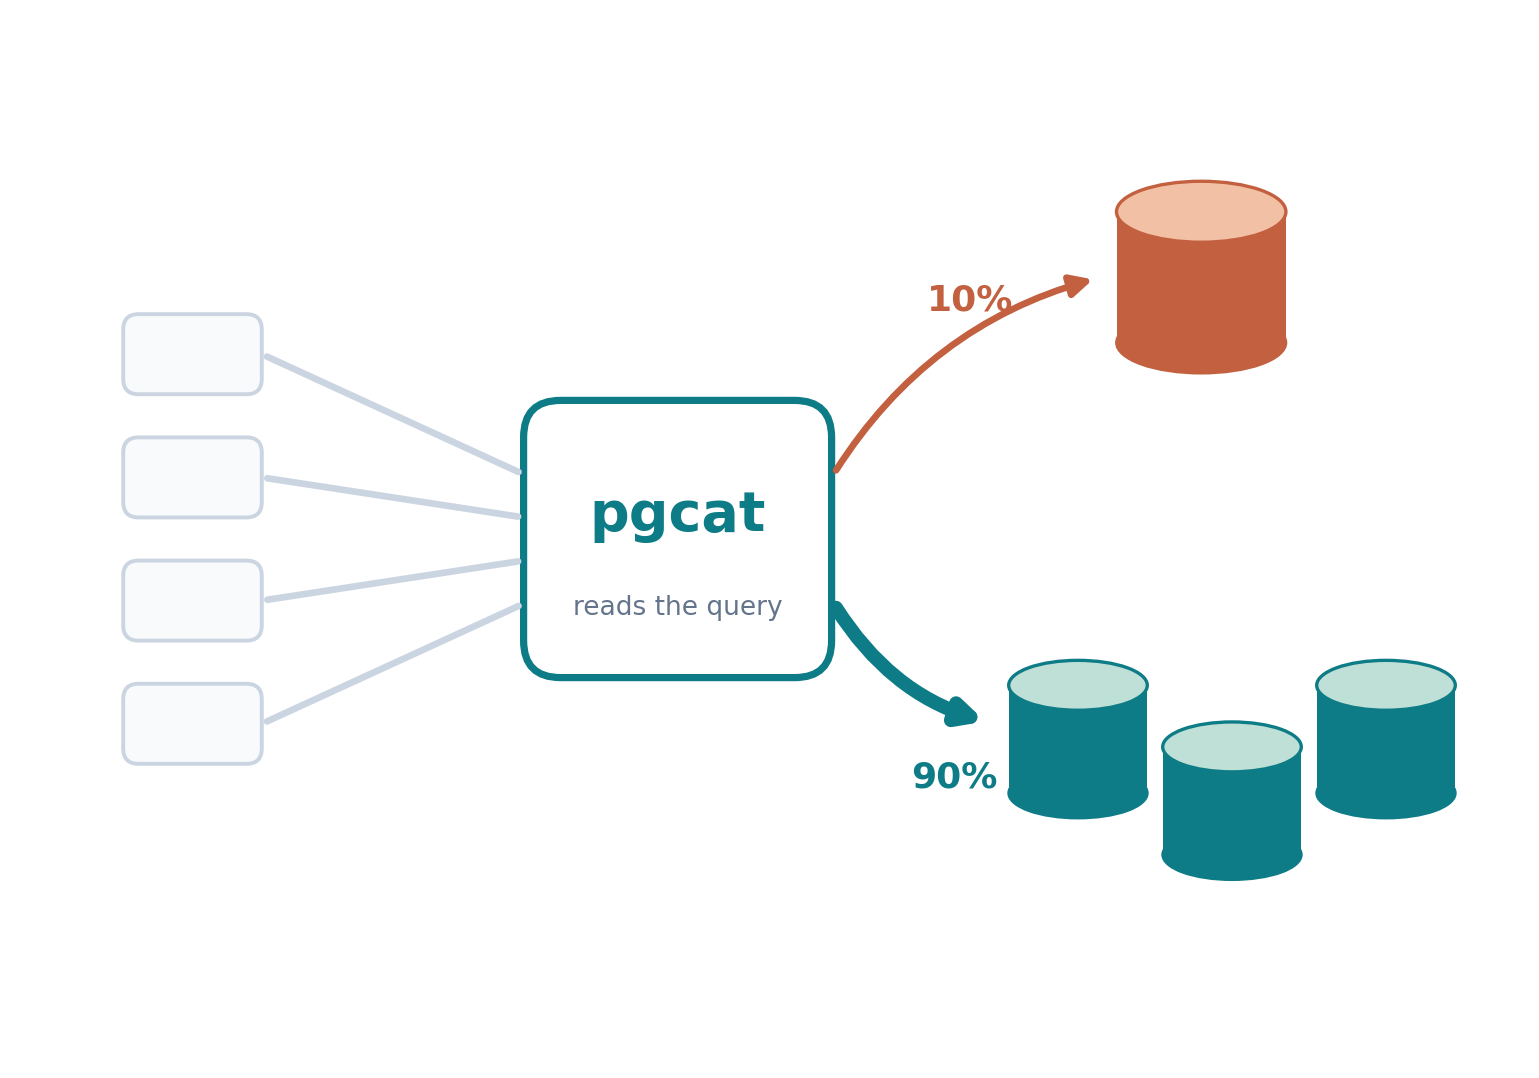
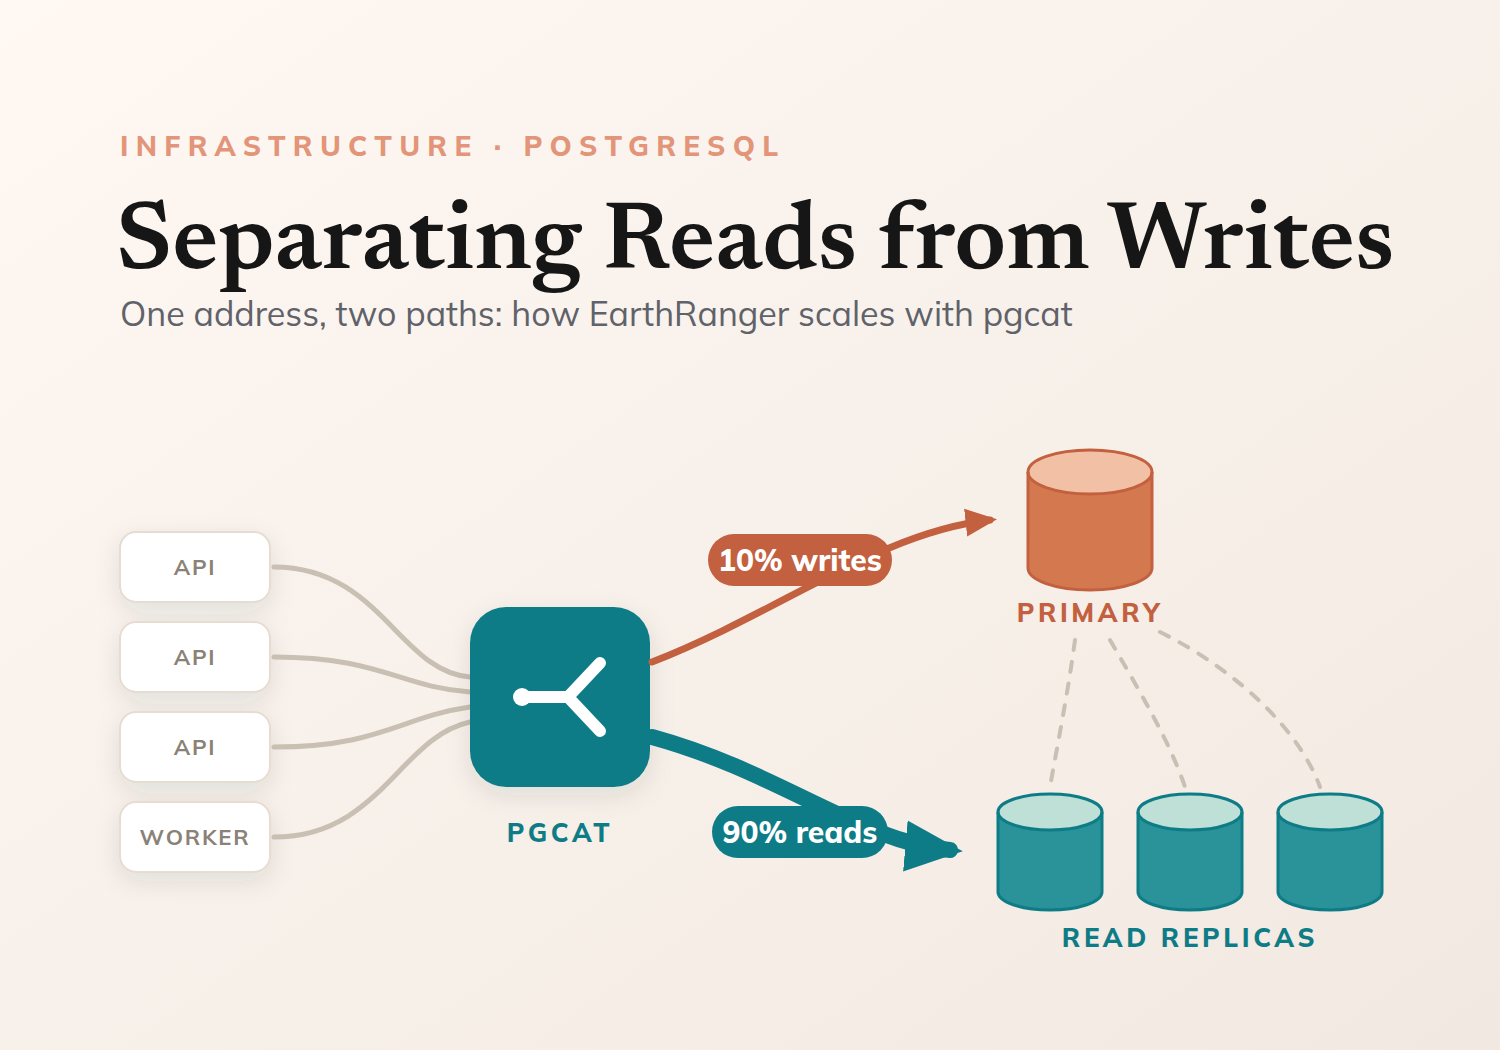
feat(posts): designed SVG cover for EarthRanger read/write post

diff --git a/scripts/posts/separating-reads-from-writes-earthranger/make_figures.py b/scripts/posts/separating-reads-from-writes-earthranger/make_figures.py
@@ -4,8 +4,9 @@ Usage:
     uv run --with matplotlib python make_figures.py
 
 Outputs PNGs into the post's page bundle
-(content/posts/separating-reads-from-writes-earthranger/images/) and the cover
-into assets/images/posts/separating-reads-from-writes-earthranger/.
+(content/posts/separating-reads-from-writes-earthranger/images/). The cover is
+a hand-drawn SVG in assets/images/posts/separating-reads-from-writes-earthranger/,
+rendered to cover.png with headless Chromium so the site's web fonts apply.
 """
 
 from pathlib import Path
@@ -17,7 +18,6 @@ HERE = Path(__file__).resolve().parent
 SITE = HERE.parent.parent.parent
 SLUG = "separating-reads-from-writes-earthranger"
 BUNDLE = SITE / "content" / "posts" / SLUG / "images"
-COVER_DIR = SITE / "assets" / "images" / "posts" / SLUG
 
 INK = "#1e293b"
 MUTED = "#64748b"
@@ -322,46 +322,11 @@ def make_rollout(path):
     plt.close(fig)
 
 
-# ------------------------------------------------------------------- cover
-# The site shows covers in a 10:7 box with object-fit: cover, and cards overlay
-# dark gradients top and bottom, so keep the drawing centred with safe margins.
-def make_cover(path):
-    fig, ax = canvas(10, 7)
-    H = 70
-
-    # app pods feeding in from the left
-    for i, yy in enumerate([H / 2 + 12, H / 2 + 4, H / 2 - 4, H / 2 - 12]):
-        box(ax, 8, yy - 2.6, 9, 5.2, fc=CARD, ec=FAINT, lw=1.4, radius=1.0)
-        arrow(ax, (17, yy), (34, H / 2 + (yy - H / 2) * 0.35), color=FAINT, lw=2.4, style="-", shrink=2)
-
-    # pgcat node
-    box(ax, 34, H / 2 - 9, 20, 18, fc=PAPER, ec=READ, lw=2.6, radius=2.4)
-    label(ax, 44, H / 2 + 1.5, "pgcat", size=20, weight="bold", color=READ)
-    label(ax, 44, H / 2 - 4.5, "reads the query", size=9.5, color=MUTED)
-
-    # writes up to the primary (thin), reads down to replicas (thick)
-    prim = (78, H / 2 + 17)
-    cylinder(ax, prim[0], prim[1], 11, 8.5, WRITE, WRITE_LIGHT)
-    arrow(ax, (54, H / 2 + 4), (prim[0] - 6.5, prim[1]), color=WRITE, lw=2.4, rad=-0.2)
-    label(ax, 63, H / 2 + 15.5, "10%", size=13, weight="bold", color=WRITE)
-
-    reps = [(70, H / 2 - 13), (80, H / 2 - 17), (90, H / 2 - 13)]
-    for r in reps:
-        cylinder(ax, r[0], r[1], 9, 7, READ, READ_LIGHT)
-    arrow(ax, (54, H / 2 - 4), (reps[0][0] - 5.5, reps[0][1] + 1), color=READ, lw=5.0, rad=0.2)
-    label(ax, 62, H / 2 - 15.5, "90%", size=13, weight="bold", color=READ)
-
-    fig.savefig(path, pad_inches=0)
-    plt.close(fig)
-
-
 if __name__ == "__main__":
     BUNDLE.mkdir(parents=True, exist_ok=True)
-    COVER_DIR.mkdir(parents=True, exist_ok=True)
     make_traffic_split(BUNDLE / "traffic_split.png")
     make_architecture(BUNDLE / "architecture.png")
     make_routing(BUNDLE / "routing.png")
     make_read_your_writes(BUNDLE / "read_your_writes.png")
     make_rollout(BUNDLE / "rollout.png")
-    make_cover(COVER_DIR / "cover.png")
     print("done:", BUNDLE)
